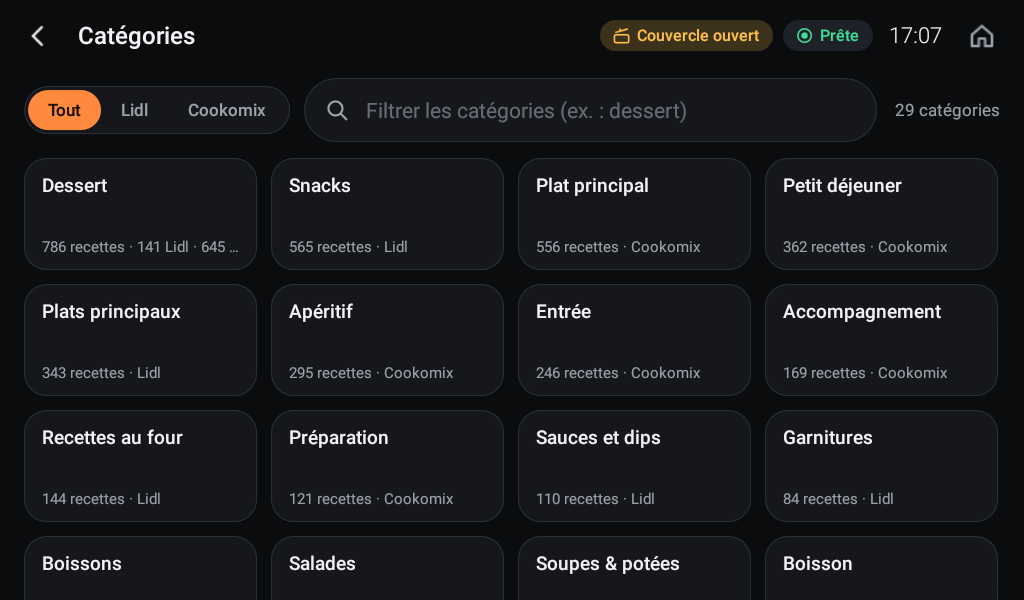
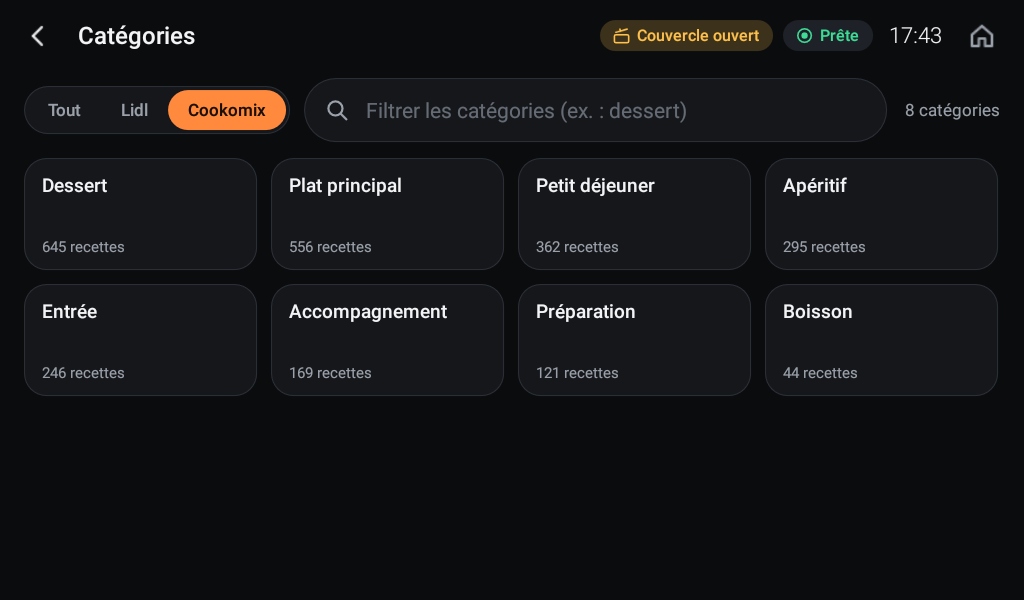
Doc : captures complétées (Cookomix, Réglages en entier, cadre photo) (#21)
Complète la section « Captures d'écran » des README :

- Recettes et catégories sur l'onglet Cookomix.
- Réglages : un montage de toute la hauteur de la page. Le lien d'album
qu'on y voit est un exemple fictif.
- Cadre photo : une photo du robot pendant le diaporama.

Doc seulement, pas de nouvelle version.

🤖 Generated with [Claude Code](https://claude.com/claude-code)

diff --git a/README.fr.md b/README.fr.md
@@ -104,8 +104,10 @@ Prises sur le robot (SKMC 1200, écran de 1024 × 600).
 | Accueil | Cuisson manuelle (molettes) |
 |---|---|
 | ![Écran d'accueil](docs/images/accueil.png) | ![Cuisson manuelle](docs/images/manuel.png) |
-| **Catégories** | **Réglages** |
-| ![Catégories](docs/images/categories.png) | ![Réglages](docs/images/reglages.png) |
+| **Recettes (onglet Cookomix)** | **Catégories (onglet Cookomix)** |
+| ![Recettes](docs/images/recettes.jpg) | ![Catégories](docs/images/categories.png) |
+| **Réglages (la page entière)** | **Cadre photo pendant la veille** |
+| ![Réglages](docs/images/reglages.png) | ![Cadre photo](docs/images/cadre-photo.jpg) |
 | **Aide sur les fonctionnalités** | |
 | ![Page d'aide](docs/images/aide.png) | |
 

diff --git a/README.md b/README.md
@@ -103,8 +103,10 @@ Taken on the robot (SKMC 1200, 1024 × 600 screen), interface in French; it also
 | Home | Manual cooking (dials) |
 |---|---|
 | ![Home screen](docs/images/accueil.png) | ![Manual cooking](docs/images/manuel.png) |
-| **Categories** | **Settings** |
-| ![Categories](docs/images/categories.png) | ![Settings](docs/images/reglages.png) |
+| **Recipes (Cookomix tab)** | **Categories (Cookomix tab)** |
+| ![Recipes](docs/images/recettes.jpg) | ![Categories](docs/images/categories.png) |
+| **Settings (the whole page)** | **Photo frame while the screen sleeps** |
+| ![Settings](docs/images/reglages.png) | ![Photo frame](docs/images/cadre-photo.jpg) |
 | **Help on features** | |
 | ![Help page](docs/images/aide.png) | |
 
